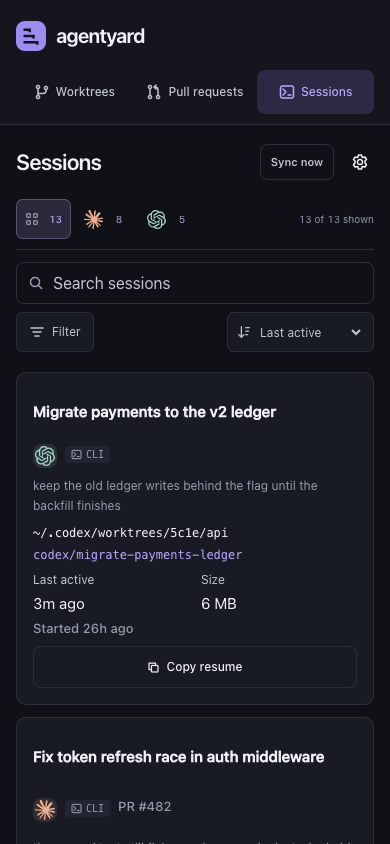
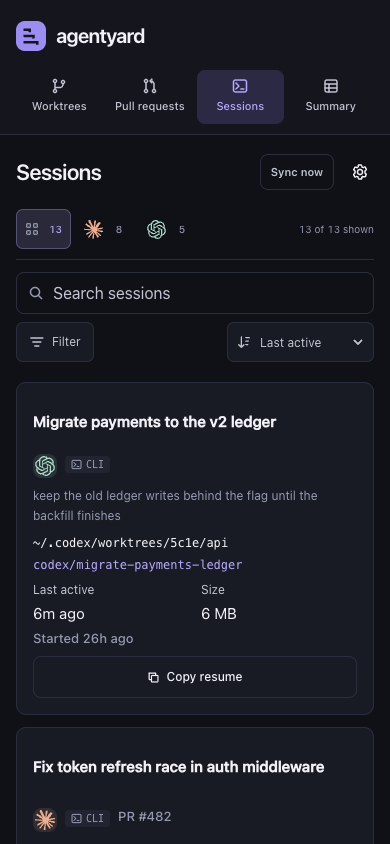
docs: refresh screenshots and README for summaries, merge train and cleanup
Every screenshot is retaken from agentyard demo (synthetic data): the
Summary tab, Merge train view, snooze buttons and live activity times
were missing. Adds a Merge train screenshot, and README text for live
activity ordering on Summary and resuming carried-over topics.

Claude-Session: https://claude.ai/code/session_01T463uGuhooyuWkPCyigFWs

diff --git a/README.md b/README.md
@@ -7,7 +7,8 @@
 
 ### The yard where your coding agents work.
 
-Every git worktree, open pull request and Claude Code / Codex session on one calm page.<br>
+Every git worktree, open pull request and Claude Code / Codex session on one calm page,<br>
+a morning summary of where each piece of work stands, and cleanup you can hand to your AI.<br>
 One Go binary. No dependencies. Runs quietly in the background on your Mac.
 
 [![CI](https://github.com/MilosMosovsky/agentyard/actions/workflows/ci.yml/badge.svg)](https://github.com/MilosMosovsky/agentyard/actions/workflows/ci.yml)
@@ -44,7 +45,9 @@ One Go binary. No dependencies. Runs quietly in the background on your Mac.
 Run ten coding agents in parallel and by Friday you have forty worktrees, a dozen open PRs and a
 hundred sessions you cannot find again. Which folders are safe to delete? Which PR is stuck, and on
 what? Where was the session that fixed the auth race? agentyard answers all three on one page, and
-keeps the answers fresh while you work.
+keeps the answers fresh while you work. Each morning it can also tell you what every session got to
+and what is waiting on you, and your own agent can clean up the finished worktrees through its MCP
+tools, on request or on a schedule.
 
 ## Quick start
 
@@ -221,6 +224,11 @@ filters, sorting, repository expansion, and the selected PR persist for the brow
 
 ### Merge train
 
+<picture>
+  <source media="(prefers-color-scheme: dark)" srcset="docs/screenshots/prs-merge-train-dark.jpg">
+  <img alt="The Merge train view: open pull requests in lanes by their next step, such as close because it is already in the base, merge and rebase, each with its age, idle time and base branch." src="docs/screenshots/prs-merge-train-light.jpg" width="100%">
+</picture>
+
 The **Merge train** view in Pull requests ranks every open PR by its one next step. Lanes appear in
 this order; within each lane, stale PRs come first, then the oldest opened PRs. A PR is stale after
 14 days without a commit. It keeps its lane, with an idle notice in the next step.
@@ -305,8 +313,10 @@ a brief builds on the previous one, sessions keep their topic, two topics that t
 work merge into one, and unrelated work in one topic splits out.
 A list of projects beside the summary (a **Jump to project** menu on a phone) shows how many topics
 each has, when it was last active ("10 minutes ago") and how many sessions wait on you or are
-blocked, and takes you straight there. Open a
-topic to see its sessions. For each session:
+blocked, and takes you straight there. Those times follow your sessions as they run, not just the
+last summary: the page updates them every minute without summarizing again, and projects and topics
+stay ordered by them, the most recently active first. Open a topic to see its sessions. For each
+session:
 
 - where it got to, what it is waiting on you for or blocked on, and what comes next;
 - its branch and PR, any sub-agents with a line each, and **Copy resume**.
@@ -320,7 +330,9 @@ then comes back on its own, or **Unsnooze** brings it back sooner. Snoozing chan
 saved runs, and `get_summary` leaves snoozed topics out and counts them.
 
 Topics carry over from one summary to the next and say how long they have been open ("open since
-Mon, Nov 2 · 4 days"). A topic with no activity stays visible for 7 days and leaves the list after
+Mon, Nov 2 · 4 days"). A carried-over topic with no session in the latest window shows its last
+sessions instead, up to three, each with its note, branch, PR and **Copy resume**, so you can pick
+it up where it stopped. A topic with no activity stays visible for 7 days and leaves the list after
 14. Every run is saved, including failed ones, and you can reopen any of the last 30 from the dated
 picker. A failed run keeps showing the previous good summary beneath its error.
 
